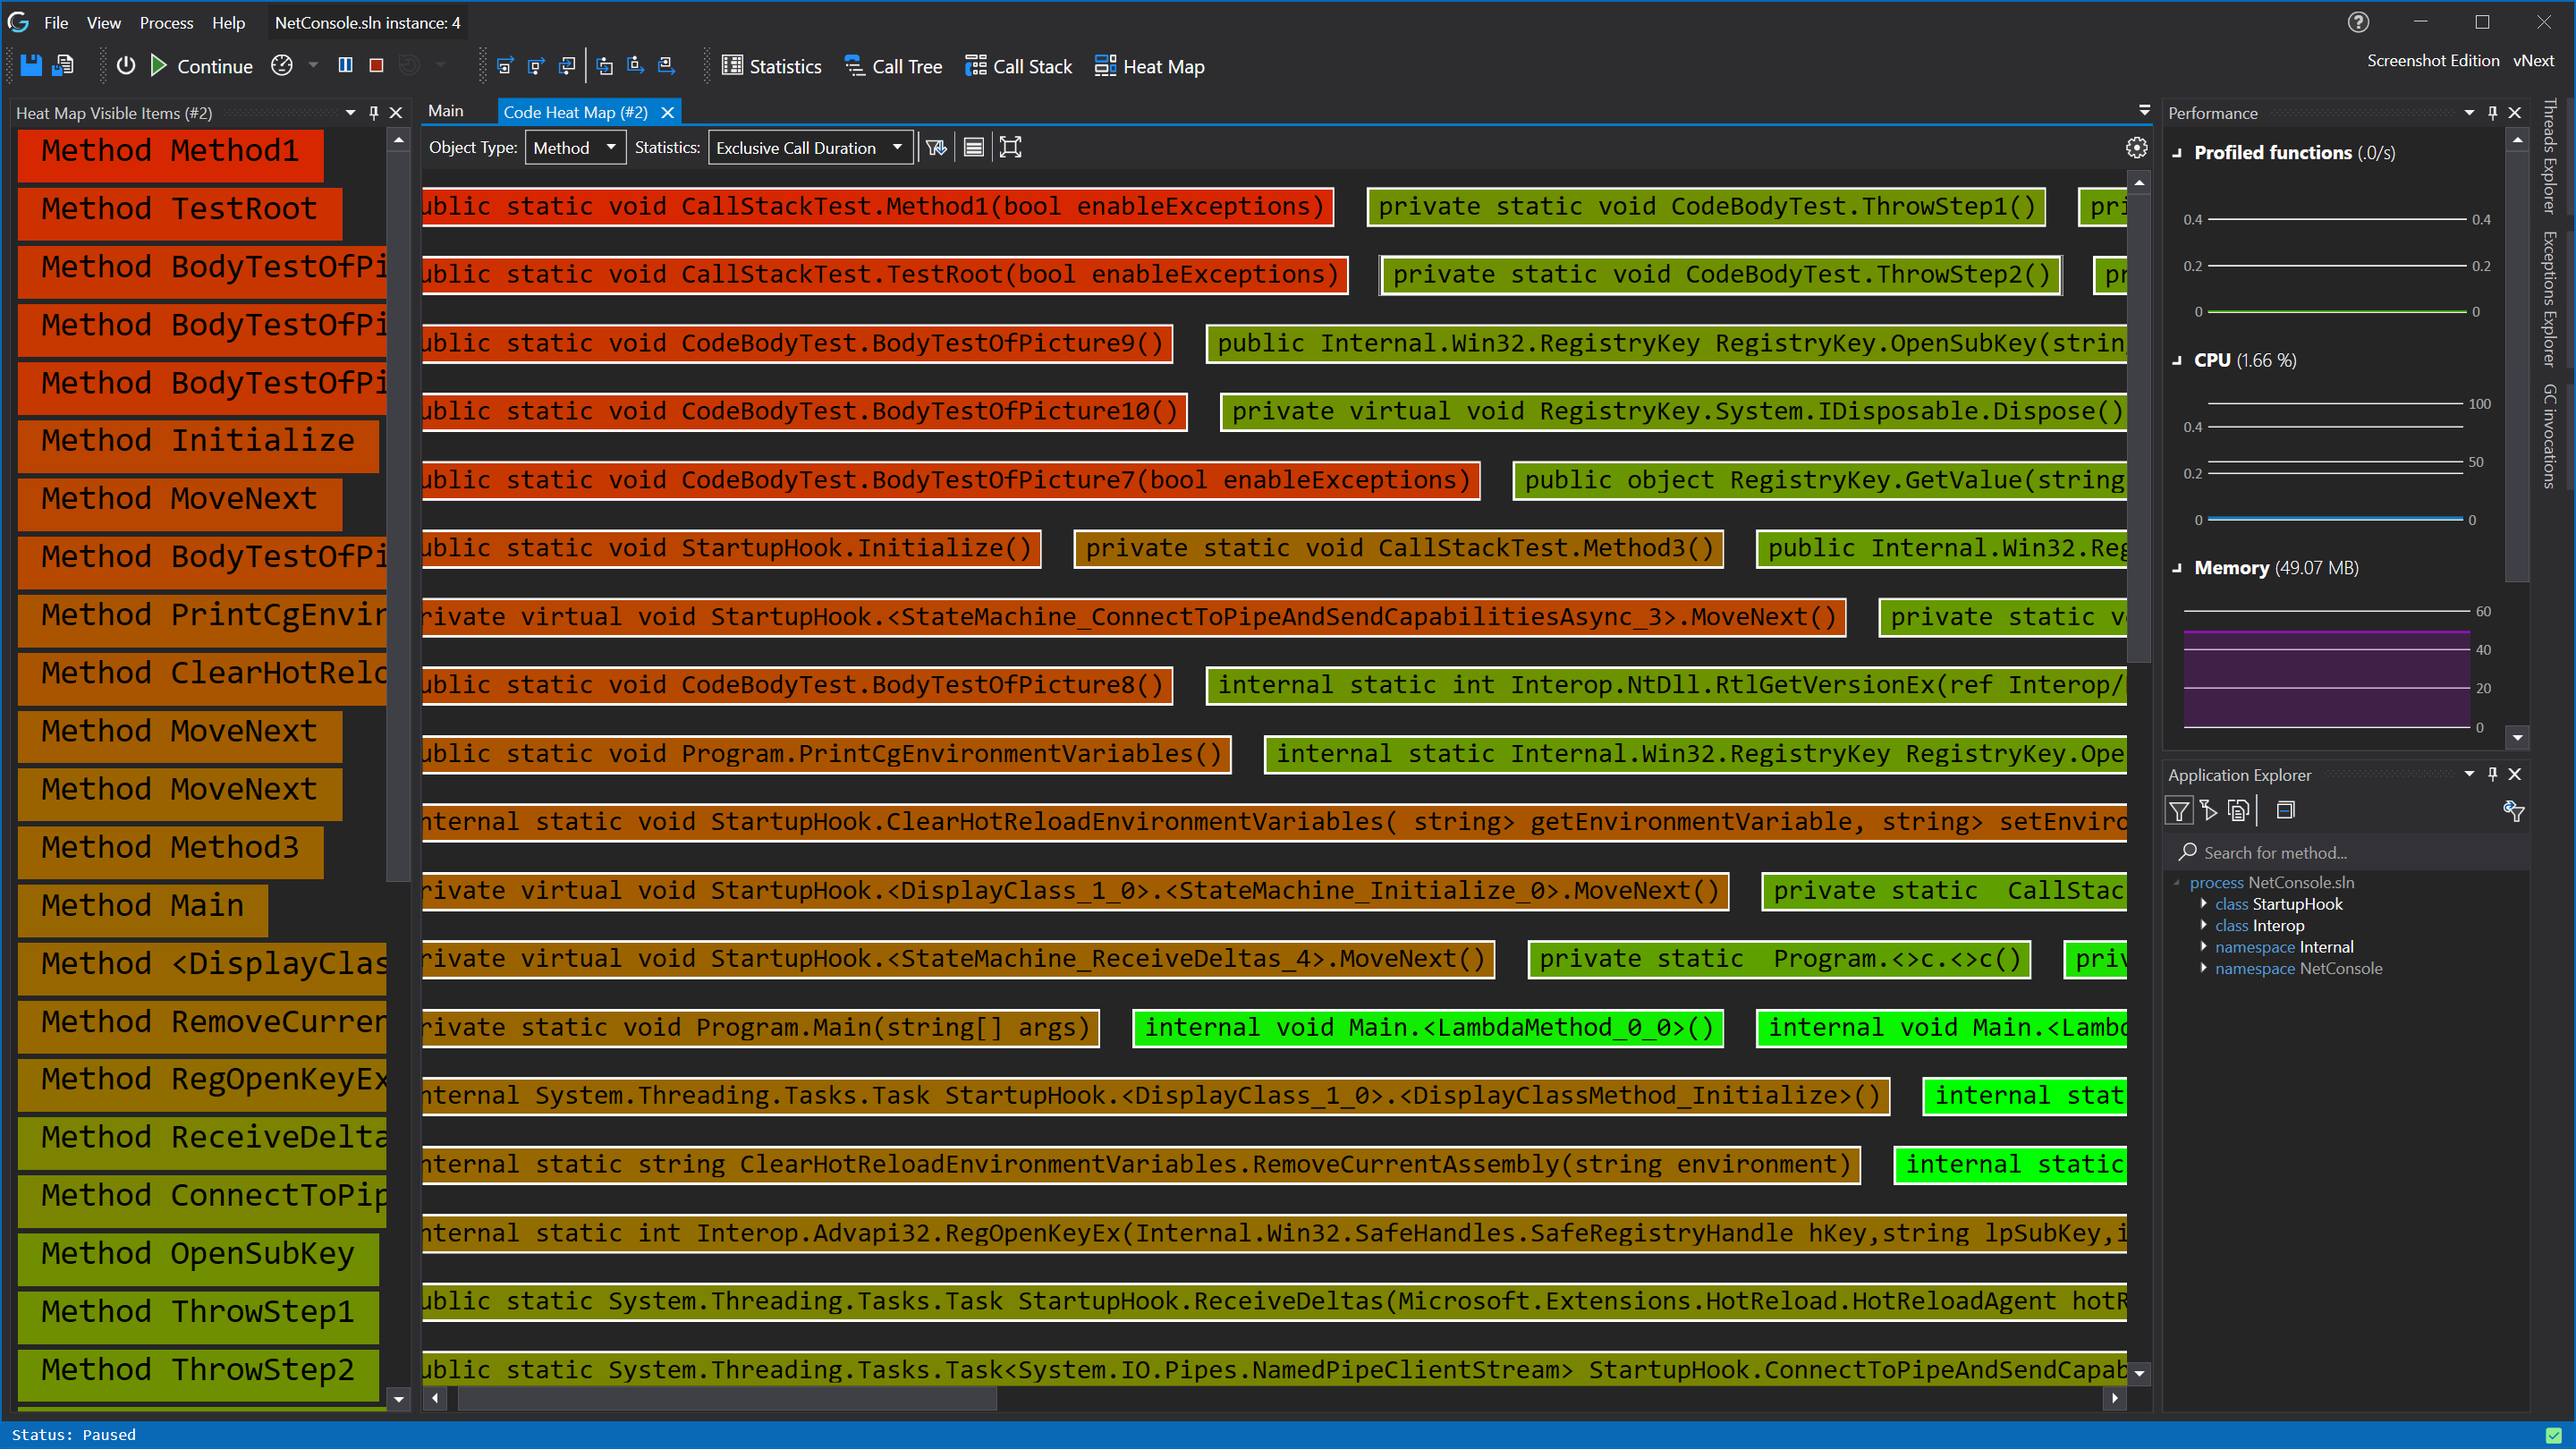
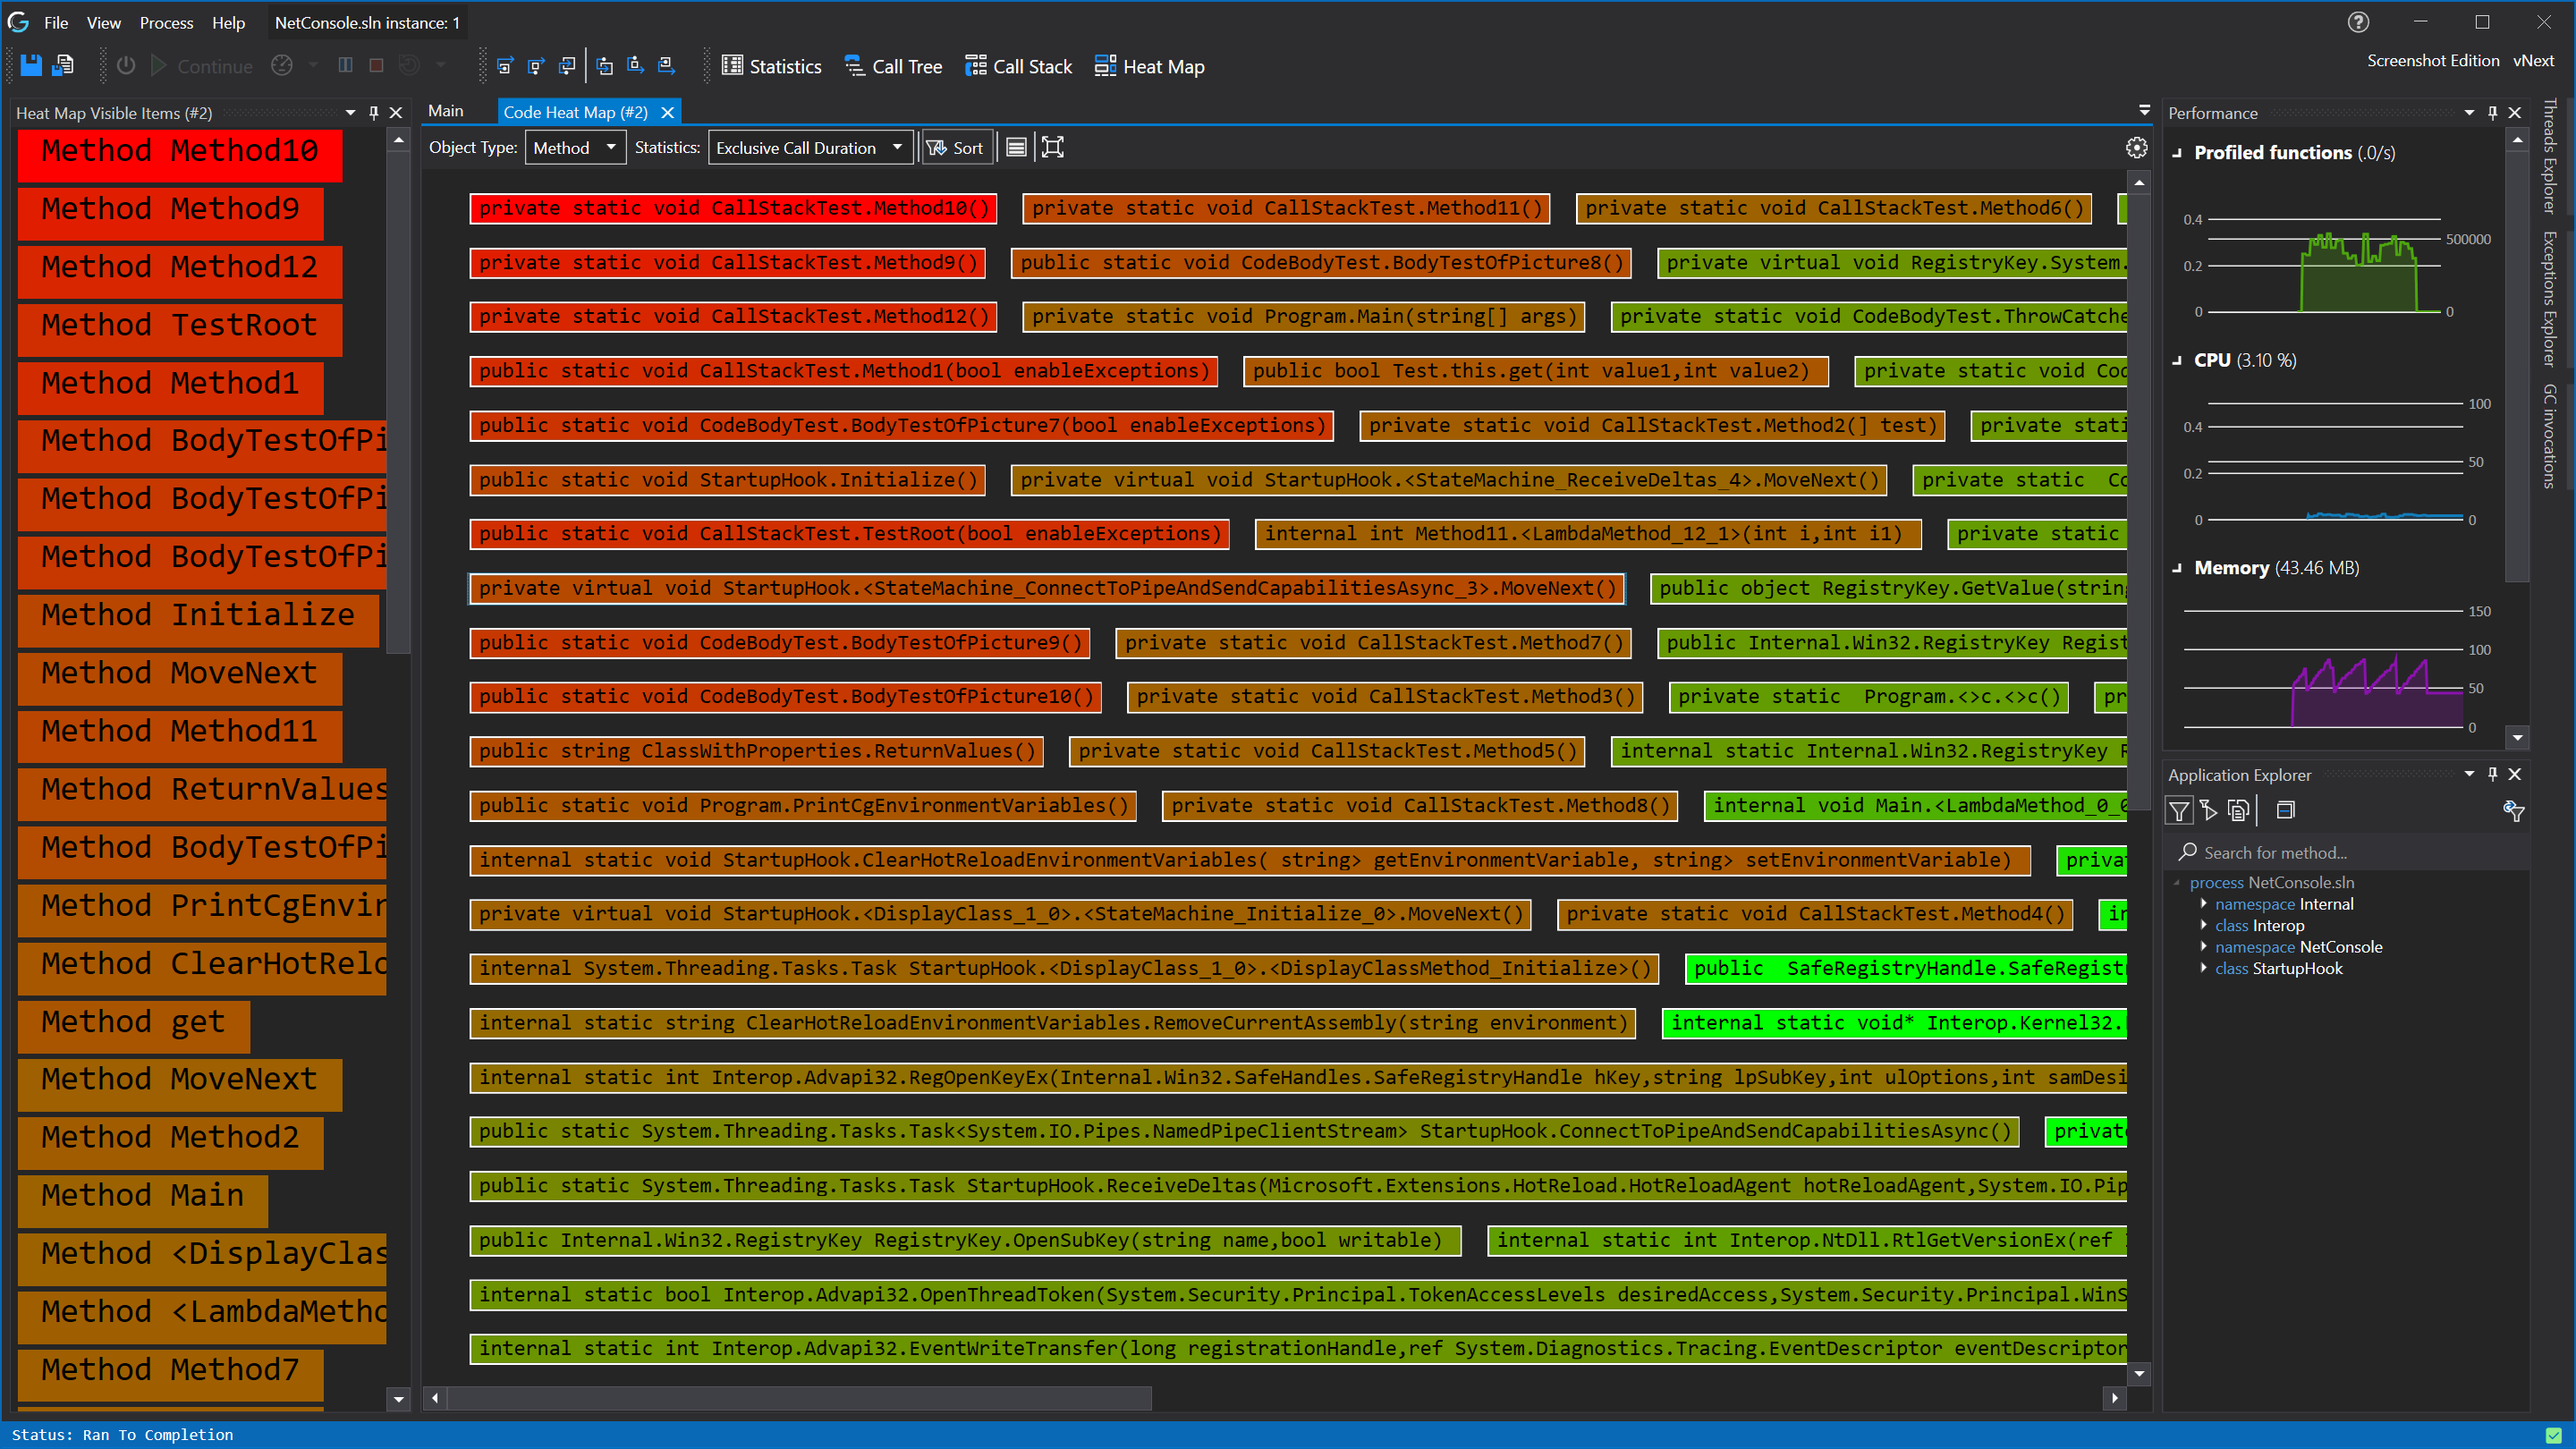
Heatmap sort button

diff --git a/_docs/views/ApplicationInstanceDockWindow/CodeHeatMap.md b/_docs/views/ApplicationInstanceDockWindow/CodeHeatMap.md
@@ -10,7 +10,7 @@ See [Feature - Realtime Code Heat Map](../../features/RealtimeRendering.md#realt
 In the toolbar on top you can do multiple actions, in order they appear:
 - Dropdown to select which object types you want to see.
 - Dropdown to select which statistic you want to use
-- Icon button to reorder the render to sort the items by the selected statistic.
+- Icon button(sort) to automatically sort the render by the selected statistic, which is enabled by default.
 - Icon button to open the [heat map visible items tool pane](#heat-map-visible-items-tool-pane) (Visible on the left of the screenshot).
 - Icon button to reposition the screen to default zoom and position.
 - Icon button to open the [heat map settings window](#heat-map-settings-window).
